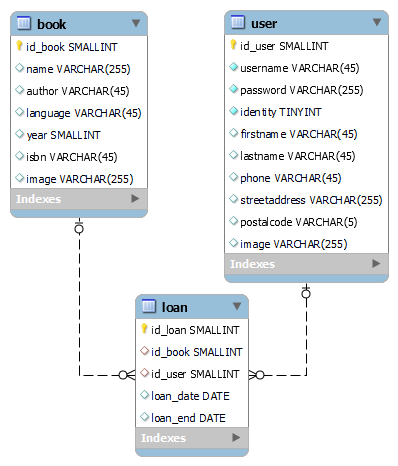
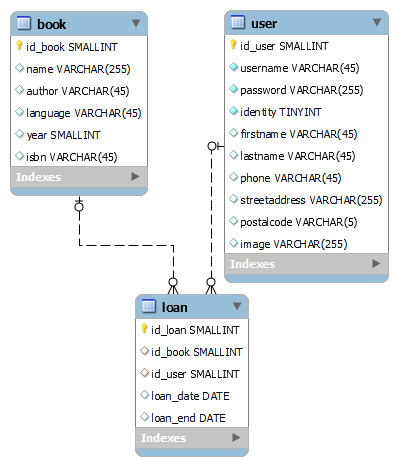
Few changes

diff --git a/Models/Loandata_model.cs b/Models/Loandata_model.cs
@@ -1,0 +1,146 @@
+using System.Collections.Generic;
+using System.Data;
+using System.Data.Common;
+using System.Threading.Tasks;
+using MySqlConnector;
+
+namespace library_project
+{
+    public class Loandata
+    {
+        public int id_loan { get; set; }
+        public int id_book { get; set; }
+        public int id_user { get; set; }
+        public DateTime loan_date { get; set; }
+        public DateTime loan_end { get; set; }
+
+        internal Database Db { get; set; }
+
+        public Loandata()
+        {
+        }
+
+        internal Loandata(Database db)
+        {
+            Db = db;
+        }
+
+        public async Task<Loandata> FindOneAsync(string username)
+        {
+            using var cmd = Db.Connection.CreateCommand();
+            cmd.CommandText = @"SELECT * FROM loan WHERE username = @username";
+            cmd.Parameters.Add(new MySqlParameter
+            {
+                ParameterName = "@username",
+                DbType = DbType.String,
+                Value = username,
+            });
+            var result = await ReturnAllAsync(await cmd.ExecuteReaderAsync());
+            if (result.Count > 0)
+            {
+                return result[0];
+            }
+            else
+            {
+                return null;
+            }
+        }
+
+        public async Task<int> InsertAsync()
+        {
+            using var cmd = Db.Connection.CreateCommand();
+            cmd.CommandText = @"INSERT INTO loan (id_loan, id_book, id_user, loan_date, loan_end)
+            VALUES (@id_loan, @id_book, @id_user, @loan_date, @loan_end);";
+            BindParams(cmd);
+            try
+            {
+                await cmd.ExecuteNonQueryAsync();
+                int lastInsertId = 1;
+                return lastInsertId; 
+            }
+            catch (System.Exception)
+            {   
+                return 0;
+            } 
+        }
+
+        public async Task UpdateAsync()
+        {
+            using var cmd = Db.Connection.CreateCommand();
+            cmd.CommandText = @"UPDATE loan SET id_loan = @id_loan, id_book = @id_book, id_user = @id_user, loan_date = @loan_date, loan_end = @loan_end
+            WHERE username = @username;";
+            BindParams(cmd);
+            BindId(cmd);
+            await cmd.ExecuteNonQueryAsync();
+        }
+
+        public async Task DeleteAsync()
+        {
+            using var cmd = Db.Connection.CreateCommand();
+            cmd.CommandText = @"DELETE FROM loan WHERE id_book = @id_book;";
+            BindId(cmd);
+            await cmd.ExecuteNonQueryAsync();
+        }
+
+        private async Task<List<Loandata>> ReturnAllAsync(DbDataReader reader)
+        {
+            var posts = new List<Loandata>();
+            using (reader)
+            {
+                while (await reader.ReadAsync())
+                {
+                    var post = new Loandata(Db)
+                    {
+                        id_loan = reader.GetInt32(0),
+                        id_book = reader.GetInt32(1),
+                        id_user = reader.GetInt32(2),
+                        loan_date = reader.GetDateTime(4),
+                        loan_end = reader.GetDateTime(5),
+                    };
+                    posts.Add(post);
+                }
+            }
+            return posts;
+        }
+
+        private void BindId(MySqlCommand cmd)
+        {
+            cmd.Parameters.Add(new MySqlParameter
+            {
+                ParameterName = "@id_loan",
+                DbType = DbType.Int32,
+                Value = id_loan,
+            });
+        }
+
+        private void BindParams(MySqlCommand cmd)
+        {            
+
+            cmd.Parameters.Add(new MySqlParameter
+            {
+                ParameterName = "@id_book",
+                DbType = DbType.Int32,
+                Value = id_book,
+            });
+
+            cmd.Parameters.Add(new MySqlParameter
+            {
+                ParameterName = "@id_user",
+                DbType = DbType.Int32,
+                Value = id_user,
+            });
+            cmd.Parameters.Add(new MySqlParameter
+            {
+                ParameterName = "@loan_date",
+                DbType = DbType.DateTime,
+                Value = loan_date,
+            });
+            cmd.Parameters.Add(new MySqlParameter
+            {
+                ParameterName = "@loan_end",
+                DbType = DbType.DateTime,
+                Value = loan_end,
+            });
+        }
+    }
+}

diff --git a/Models/Book_model.cs b/Models/Book_model.cs
@@ -14,8 +14,6 @@ namespace library_project
         public string language { get; set; }
         public int year { get; set; }
         public string isbn { get; set; }
-        public string image { get; set; }
-
 
         internal Database Db { get; set; }
 
@@ -108,7 +106,6 @@ namespace library_project
                         language = reader.GetString(3),
                         year = reader.GetInt32(4),
                         isbn = reader.GetString(5),
-                        image = reader.GetString(6)
                     };
                     posts.Add(post);
                 }
@@ -157,12 +154,6 @@ namespace library_project
                 ParameterName = "@isbn",
                 DbType = DbType.String,
                 Value = isbn,
-            });
-                        cmd.Parameters.Add(new MySqlParameter
-            {
-                ParameterName = "@image",
-                DbType = DbType.String,
-                Value = image,
             });
         }
     }

diff --git a/Controllers/LoandataController.cs b/Controllers/LoandataController.cs
@@ -4,9 +4,9 @@ using Microsoft.AspNetCore.Mvc;
 namespace library_project.Controllers
 {
     [Route("api/[controller]")]
-    public class BookController : ControllerBase
+    public class LoandataController : ControllerBase
     {
-        public BookController(Database db)
+        public LoandataController(Database db)
         {
             Db = db;
         }
@@ -58,7 +58,7 @@ namespace library_project.Controllers
             result.language = body.language;
             result.year = body.year;
             result.isbn = body.isbn;
-
+            
             await result.UpdateAsync();
             return new OkObjectResult(result);
         }
